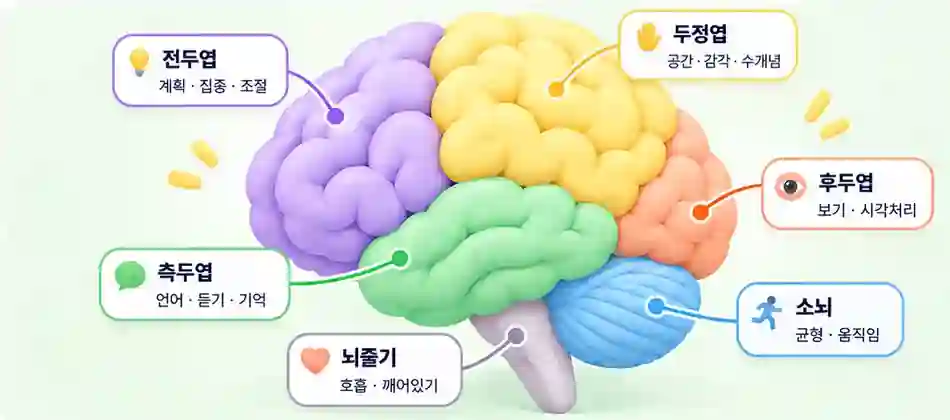
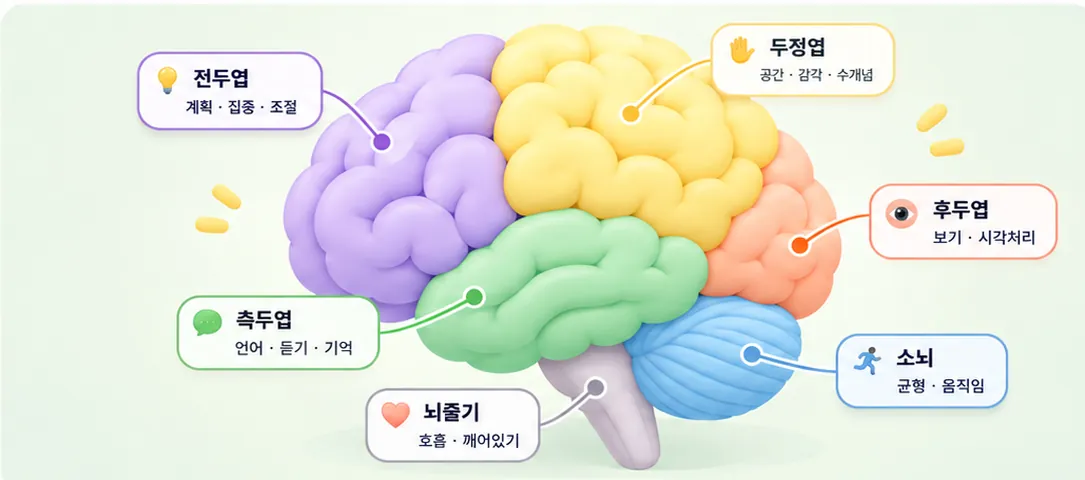
fix(brain-map): ship verified higher-quality approved illustration
* fix(brain-map): replace severely compressed approved art with quality-80 higher-resolution WebP

* fix(brain-map): bust browser cache for upgraded crisp brain illustration

diff --git a/brain-map/3d/index.html b/brain-map/3d/index.html
@@ -25,7 +25,7 @@
   </div>
  </div>
  <div class="map-stage" id="mapStage" data-view="side" aria-label="각 부위별 역할이 표시된 뇌 그림">
-   <img class="approved-brain-art" src="approved-reference.webp?v=20261010-approved2" alt="승인된 파스텔 뇌 그림과 전두엽·두정엽·측두엽·후두엽·소뇌·뇌줄기 역할 표시" width="950" height="420">
+   <img class="approved-brain-art" src="approved-reference.webp?v=20261010-hires80" alt="승인된 파스텔 뇌 그림과 전두엽·두정엽·측두엽·후두엽·소뇌·뇌줄기 역할 표시" width="950" height="420">
    <div class="inline-3d-layer" id="inline3D" hidden aria-label="3D 뇌를 돌려 보는 화면">
      <iframe id="brainViewerFrame" title="드래그로 회전하는 뇌 지도" data-src="explore/?embedded=1" loading="lazy"></iframe>
      <div class="inline-loading" id="inlineLoading" role="status">3D 뇌지도를 불러오는 중이에요…</div>
